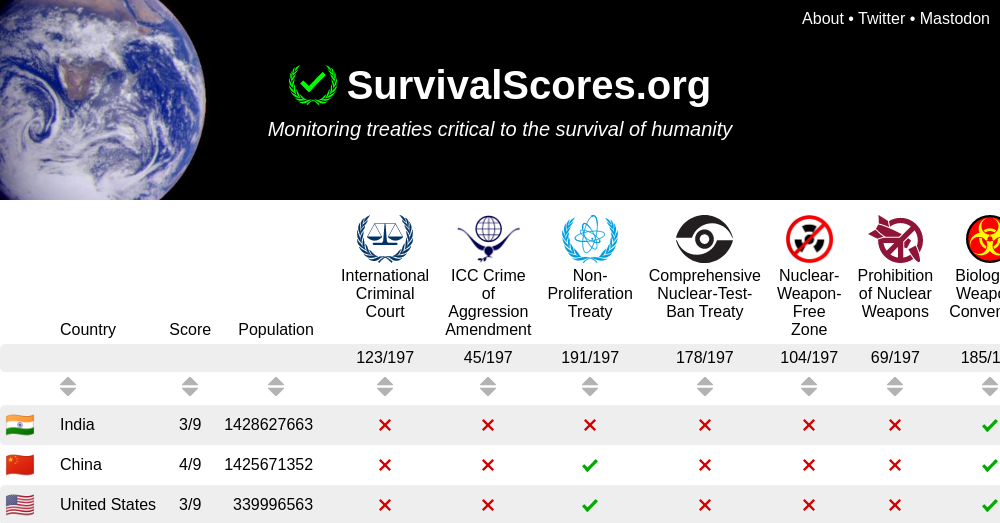
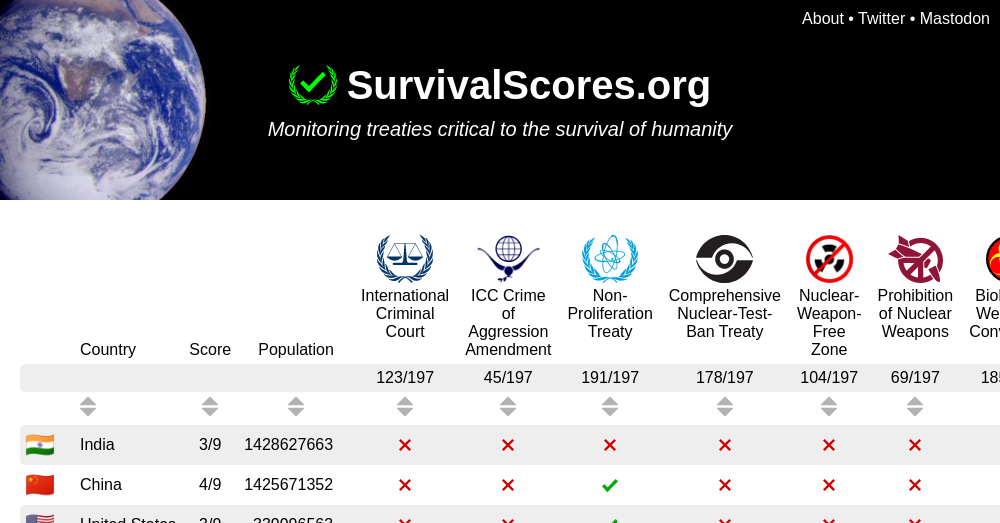
Deploying to gh-pages from @ arthuredelstein/survivalscores.org@a927335374e617a14f4485da58a82b96cbb72261 🚀

diff --git a/index.html b/index.html
@@ -63,7 +63,7 @@ th:nth-child(2) {
   z-index: 20;
 }
 .table-container {
-  padding: 0px;
+  padding: 20px;
   background-color: white;
   z-index: 20;
   position: relative;
@@ -263,7 +263,7 @@ img.arrow-icon {
   background-color: white;
   padding: 20px;
 }</style>
-    <script type="module">const dataDate = new Date('Fri Oct 27 2023 17:53:37 GMT+0000 (Coordinated Universal Time)');
+    <script type="module">const dataDate = new Date('Fri Oct 27 2023 17:56:20 GMT+0000 (Coordinated Universal Time)');
 import { polyfillCountryFlagEmojis } from './country-flag-emoji-polyfill/country-flag-emoji-polyfill.js'
 
 // Initially will be sorted by population
@@ -4514,7 +4514,7 @@ window.addEventListener('DOMContentLoaded', (e) => {
             Affairs</li><li><a href="https://treaties.un.org/Pages/ParticipationStatus.aspx">Multilateral Treaties
             Deposited with the Secretary-General</a>, United Nations, New York</li><li><a
             href="https://data.un.org/">UNdata</a>, United Nations Statistics Division</li></ul> Data retrieved at
-            2023-10-27T17:53:37.509Z
+            2023-10-27T17:56:20.788Z
       </div>
     </div>
   </body>

diff --git a/about.html b/about.html
@@ -63,7 +63,7 @@ th:nth-child(2) {
   z-index: 20;
 }
 .table-container {
-  padding: 0px;
+  padding: 20px;
   background-color: white;
   z-index: 20;
   position: relative;
@@ -263,7 +263,7 @@ img.arrow-icon {
   background-color: white;
   padding: 20px;
 }</style>
-    <script type="module">const dataDate = new Date('Fri Oct 27 2023 17:53:37 GMT+0000 (Coordinated Universal Time)');
+    <script type="module">const dataDate = new Date('Fri Oct 27 2023 17:56:20 GMT+0000 (Coordinated Universal Time)');
 import { polyfillCountryFlagEmojis } from './country-flag-emoji-polyfill/country-flag-emoji-polyfill.js'
 
 // Initially will be sorted by population
@@ -398,7 +398,7 @@ th:nth-child(2) {
   z-index: 20;
 }
 .table-container {
-  padding: 0px;
+  padding: 20px;
   background-color: white;
   z-index: 20;
   position: relative;
